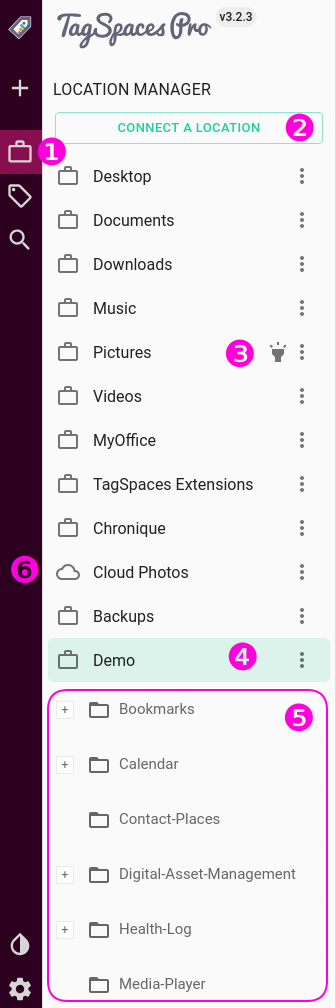
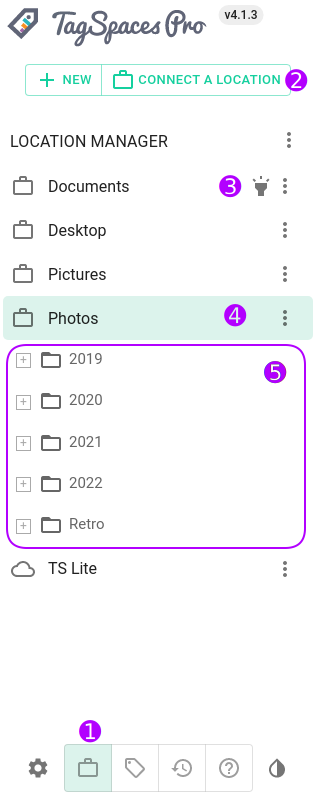
updating the docs

diff --git a/docs/ui/locations.md b/docs/ui/locations.md
@@ -38,23 +38,30 @@ Regular locations are pointing to a folder located on your local computer. This 
 
 > **Note:** Be careful with connected huge folder located on network drive, depending on the speed of the network, this could lead to performance issues.
 
-![Edit properties of a regular location](/media/edit-regular-location-dialog.png)
+![Properties of a location pointing to a local folder](/media/local-location-properties.png)
 
 The regular locations have the following properties:
 
 - _Location name_ - this is the name of location as displayed in the location manager
 - _Location path_ - the path from your computer, to which this location points
 - _Startup location_ - turning this switch on will make the location load automatically on application start. You can set only one location to be a startup one.
-- _Open this location in read-only mode_ <profeature /> - switches the interface of TagSpaces to read-only mode
 - _Enable full text search for TXT, MD and HTML files_ <profeature /> - activates the indexing of the content of text, markdown and HTML files.
-- _Switch to manual index creation with persisted search index_ <profeature /> - disables the automatic indexing of a location on its opening. The application will try to open a previously created index located in a file _tsi.json_ from the _.ts_ folder of the location. This is useful on locations with many files, where the content does not change very often.
 - _Watch for external changes in this location_ <profeature /> - once switched on TagSpaces will watch the folder to which the location points and all its sub folders for changes and reflect them in the application.
+
+Clicking on the `Advanced Mode` button will extend the dialog and it will look like this.
+
+![Advanced properties of a location pointing to a local folder](/media/local-location-properties-advanced.png)
+
+The extended dialog will have in addition the following properties:
+
+- _Switch to manual index creation with persisted search index_ <profeature /> - disables the automatic indexing of a location on its opening. The application will try to open a previously created index located in a file _tsi.json_ from the _.ts_ folder of the location. This is useful on locations with many files, where the content does not change very often.
+- _Open this location in read-only mode_ <profeature /> - switches the interface of TagSpaces to read-only mode
 
 ## Cloud Locations
 
 These location are pointing to AWS S3 compatible stores (also known as buckets) located in the Internet.
 
-> <profeature /> Cloud locations are available only in the <a href="https://www.tagspaces.org/products/pro">Pro</a> and <a href="https://www.tagspaces.org/products/enterprise">Enterprise</a> editions of TagSpaces.
+> <profeature /> Cloud locations are available only in the <a href="https://www.tagspaces.org/products/pro/">Pro</a> and <a href="https://www.tagspaces.org/products/enterprise/">Enterprise</a> editions of TagSpaces.
 
 ![Edit properties of a cloud location](/media/edit-cloud-location-dialog.png)
 
@@ -77,8 +84,8 @@ With this feature TagSpaces PRO is going into direction of supporting the Cloud 
 You can recognize object storage location by the cloud icon in front of their name, as seen in the next screenshot.
 
 <figure>
-  <img alt="Screenshot showing configuration of a AWS S3 hosted location" src="https://www.tagspaces.org/content/v3-x/tagspaces-s3-locations.png" class="img-responsive center-block" />
-  <figcaption>Screenshot showing configuration of a AWS S3 hosted location</figcaption>
+  <img alt="Screenshot showing configuration of a AWS S3 hosted location" src="/media/tagspaces-s3-locations.png" class="img-responsive center-block" />
+  <figcaption>Configuration of a location hosted in the Cloud (Wasabi)</figcaption>
 </figure>
 
 In order to connect such location you will need to know the **bucket name**, the **access key**, the **secret access key** and the **data center location** for the particular bucket. If you have a location with a deep folder structure you can also specify the internal path to the files you want to manage in this location.
@@ -128,16 +135,16 @@ For locations containing many files, it may make sense to disable the automatic 
 If you do not have such persisted index file, you can create one manually with the command "Refresh Location Index" from the location context menu, as seen on the following screenshot.
 
 <figure>
-  <img alt="Starting the manual index generation for given location" src="https://www.tagspaces.org/content/v3-x/tagspaces-manual-indexing.png" class="img-responsive center-block" />
+  <img alt="Starting the manual index generation for given location" src="/media/tagspaces-manual-indexing.png" class="img-responsive center-block" />
   <figcaption>Starting the manual index generation for given location</figcaption>
 </figure>
 
 ### Tag extraction from location
 
-In the content menu of every tag group in the PRO version, there is an entry called "Collect Tags From Current Location", which does exactly this. It analyses the index of the current location and identifies tags with unique names, which are then added to the tag group from which the operation was started.
+<profeature /> In the content menu of every tag group in the PRO version, there is an entry called "Collect Tags From Current Location", which does exactly this. It analyses the index of the current location and identifies tags with unique names, which are then added to the tag group from which the operation was started.
 
 <figure>
-  <img alt="Starting the tag extraction" src="https://www.tagspaces.org/content/v3-x/tagspaces-tag-extraction.png" class="img-responsive center-block" />
+  <img alt="Starting the tag extraction" src="/media/tagspaces-tag-extraction.png" class="img-responsive center-block" />
   <figcaption>Starting the tag extraction</figcaption>
 </figure>
 

diff --git a/docs/ui/userinterface.md b/docs/ui/userinterface.md
@@ -14,7 +14,6 @@ This streamlined experience offers familiarity and an ease to use the applicatio
 
 The user interface of the application consists of the following main areas:
 
-- **(1) [Vertical toolbar](#vertical-toolbar)** - Is always visible and provides quick access to main parts of the application
 - **(2) [Location manager](/ui/locations.md) / [Tag Library](/ui/taglibrary.md) / [Search](/search.md) areas** - Here you can manage the connected locations, the tag library or search for file and folders.
 - **(3) [Navigation](#browsing-area)** - Here you can switch the location or quickly navigate to parent folders.
 - **(4) [Browsing area](/browsing-files.md)** - This section is occupied by the so called **perspective** used for browsing files and folders.
@@ -22,13 +21,13 @@ The user interface of the application consists of the following main areas:
 - **(6) [File / Folder properties](#file-properties-area)** - Here you will find some properties for the currently opened file or folder.
 - **(7) [Preview area](#preview-area)** - In this area you can preview and/or edit the current file.
 
-## Vertical toolbar
+<!-- ## Vertical toolbar
 
 New in version 3 of the app is the vertical toolbar located in the most left part of the application. The toolbar is designed to be alway visible. Here you can quickly access the creation of a new file, switch between the location manager, tag library and the search panels, open the app setting or enable the [dark mode](#dark-mode).
 
 ![Area on the left of the app](/media/navigation-v3.png)
 
-> **Hint:** Clicking a second time on the icons for the location manager, the tag library or the search area will close the whole area contain these sections. This could be useful if you want to have more space for file browsing or previewing.
+> **Hint:** Clicking a second time on the icons for the location manager, the tag library or the search area will close the whole area contain these sections. This could be useful if you want to have more space for file browsing or previewing. -->
 
 ## Browsing Area
 

diff --git a/docs/annotations.md b/docs/annotations.md
@@ -5,7 +5,7 @@ title: Annotating files and folders
 In addition to the tagging, in the TagSpaces PRO you have the ability to annotate every file or folder with a description. This is useful in particular if you want to add some more textual content to given a file or folder. This description information is managed in the properties area of every entry, and can be opened by clicking on the i-button, marked with **(1)** on the following screenshot.
 
 <figure>
-  <img alt="file and folder properties interfaces" src="https://www.tagspaces.org/content/v3-x/tagspaces-file-description.png" class="img-responsive center-block" />
+  <img alt="file and folder properties interfaces" src="/media/tagspaces-file-description.png" class="img-responsive center-block" />
   <figcaption>Screenshot showing file with added description</figcaption>
 </figure>
 
@@ -56,6 +56,6 @@ For adding the description to a given folder, TagSpaces PRO creates a sidecar fi
 With this feature every folder opened in TagSpaces can have its own background color. In addition to tagging you can use colors to mark folders used for particular use case or area of work. For example you can differentiate your personal folders from your work folders with color or you can mark folders containing sensitive or important information.
 
 <figure>
-  <img alt="Folder colors in action" src="https://www.tagspaces.org/content/v3-x/tagspaces-folder-colors.gif" class="img-responsive center-block" />
+  <img alt="Folder colors in action" src="/media/tagspaces-folder-colors.gif" class="img-responsive center-block" />
   <figcaption>Folder colors in action</figcaption>
 </figure>

diff --git a/docs/thumbnails.md b/docs/thumbnails.md
@@ -21,14 +21,14 @@ The free version of TagSpaces supports thumbnail generation only for image files
 - Office Documents: ODT, ODP, ODS, DOCX, XLSX, PPTX (uses the embedded preview image if available)
 
 <figure>
-  <img alt="Showing generated thumbnails in TagSpaces" src="https://www.tagspaces.org/content/v3-x/tagspaces-thumbnails.png" className="img-responsive center-block" />
+  <img alt="Showing generated thumbnails in TagSpaces" src="/media/tagspaces-thumbnails.png" className="img-responsive center-block" />
   <figcaption>Showing generated thumbnails in TagSpaces</figcaption>
 </figure>
 
 The generated thumbnails are persisted in the `.ts` folder located in every folder you browse. This feature significantly accelerates the browsing of folders containing many files. The thumbnail generation can be activated or deactivated in the application settings.
 
 <figure>
-  <img alt="screenshot showing where to activate the thumbnail generation" src="https://www.tagspaces.org/content/v3-x/tagspaces-thumbnail-generation.png" className="img-responsive center-block" />
+  <img alt="screenshot showing where to activate the thumbnail generation" src="/media/tagspaces-thumbnail-generation.png" className="img-responsive center-block" />
   <figcaption>Activating the thumbnails generation in the settings</figcaption>
 </figure>
 

diff --git a/docs/installation.md b/docs/installation.md
@@ -159,3 +159,12 @@ In order to update a version of TagSpaces used in portable mode for example on U
 :::tip
 Important: Be careful not to delete the `tsprofile` sub folder, it contains valuable information for your portable TagSpaces instance.
 :::
+
+### Portable mode with the AppImage package under Linux
+
+With the AppImage package, there is another way to have the application run in portable mode. AppImages is an application distribution format allowing to run apps on various Linux distribution. This package format supports its own [portable mode](https://docs.appimage.org/user-guide/portable-mode.html), which can be activated by creating an empty folder with the same name as your AppImage file but having `.config` at the end. This folder should be placed in the same folder as the AppImage files like this:
+
+    tagspaces-linux-x86_64-4.1.3.AppImage
+    tagspaces-linux-x86_64-4.1.3.AppImage.config
+
+Starting now the AppImage will places the whole config information in the .config folder and will not use the default config folder in the user's home folder. This allows to place the app for example on a USB-stick and run it on another PC with the same configuration.
